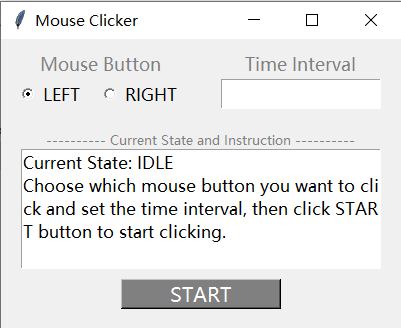
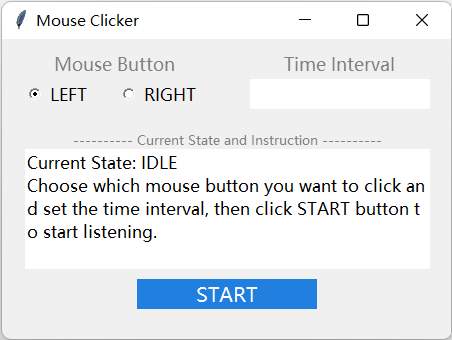
optimized GUI

diff --git a/MouseClick/MouseClick.py b/MouseClick/MouseClick.py
@@ -8,6 +8,7 @@ import threading
 import pynput.mouse  # pynput和tkinter都有Button这个包，注意区分
 from pynput.keyboard import Key, Listener
 from tkinter import *
+import ctypes
 
 LEFT = 0
 RIGHT = 1
@@ -92,33 +93,52 @@ def start():
 
 # -------------------------------- GUI界面 --------------------------------
 root = Tk()
+# 高dpi
+ctypes.windll.shcore.SetProcessDpiAwareness(1)
+ScaleFactor = ctypes.windll.shcore.GetScaleFactorForDevice(0)
+root.tk.call('tk', 'scaling', ScaleFactor/75)
+
 root.title('Mouse Clicker')
-root.geometry('400x290')
+root.geometry('450x300')
 
 mouse = IntVar()
 lab1 = Label(root, text='Mouse Button', font=("微软雅黑", 11), fg="gray")
 lab1.place(relx=0.05, y=10, relwidth=0.4, height=30)
-r1 = Radiobutton(root, text='LEFT', font=("微软雅黑", 10), value=0, variable=mouse)
+r1 = Radiobutton(root,
+                 text='LEFT',
+                 font=("微软雅黑", 10),
+                 value=0,
+                 variable=mouse)
 r1.place(relx=0.05, y=40, relwidth=0.15, height=30)
-r2 = Radiobutton(root, text='RIGHT', font=(
-    "微软雅黑", 10), value=1, variable=mouse)
+r2 = Radiobutton(root,
+                 text='RIGHT',
+                 font=("微软雅黑", 10),
+                 value=1,
+                 variable=mouse)
 r2.place(relx=0.2, y=40, relwidth=0.3, height=30)
 
 lab2 = Label(root, text='Time Interval', font=("微软雅黑", 11), fg="gray")
 lab2.place(relx=0.55, y=10, relwidth=0.4, height=30)
-input = Entry(root, font=("微软雅黑", 10))
+input = Entry(root, relief="flat", font=("微软雅黑", 10))
 input.place(relx=0.55, y=40, relwidth=0.4, height=30)
 
-label3 = Label(root, text='---------- Current State and Instruction ----------',
-               font=("微软雅黑", 8), fg="gray")
+label3 = Label(root,
+               text='---------- Current State and Instruction ----------',
+               font=("微软雅黑", 8),
+               fg="gray")
 label3.place(relx=0.05, y=90, relwidth=0.9, height=20)
-state = Text(root, font=("微软雅黑", 10))
+state = Text(root, relief="flat", font=("微软雅黑", 10))
 state.place(relx=0.05, y=110, relwidth=0.9, height=120)
 state.insert(INSERT, "Current State: IDLE\n")
-state.insert(INSERT, "Choose which mouse button you want to click and set the time interval, then click START button to start clicking.")
+state.insert(INSERT, "Choose which mouse button you want to click and set the time interval, then click START button to start listening.")
 
-btn_start = Button(root, text='START', font=("微软雅黑", 12),
-                   fg="white", bg="gray", command=start)
+btn_start = Button(root,
+                   text='START',
+                   font=("微软雅黑", 12),
+                   fg="white",
+                   bg="#207fdf",
+                   relief="flat",
+                   command=start)
 btn_start.place(relx=0.3, y=240, relwidth=0.4, height=30)
 
 root.mainloop()

diff --git a/MouseClick/README.md b/MouseClick/README.md
@@ -1,10 +1,8 @@
-## 简易鼠标连点器
+# 简易鼠标连点器
 
 **代码介绍见[我的Blog](https://komorebi660.github.io/2021/09/04/MouseClick/)**
 
-**注意：本代码在`Linux`环境运行出现异常，目前暂不清楚原因，在`Windows10`下运行正常**
-
-### 安装依赖库
+## 安装依赖库
 
 安装代码所需库：
 
@@ -24,7 +22,7 @@ sudo apt-get install python3-tk
 
 安装`tkinter`
 
-### 使用示例
+## 使用示例
 
 直接运行代码:
 
